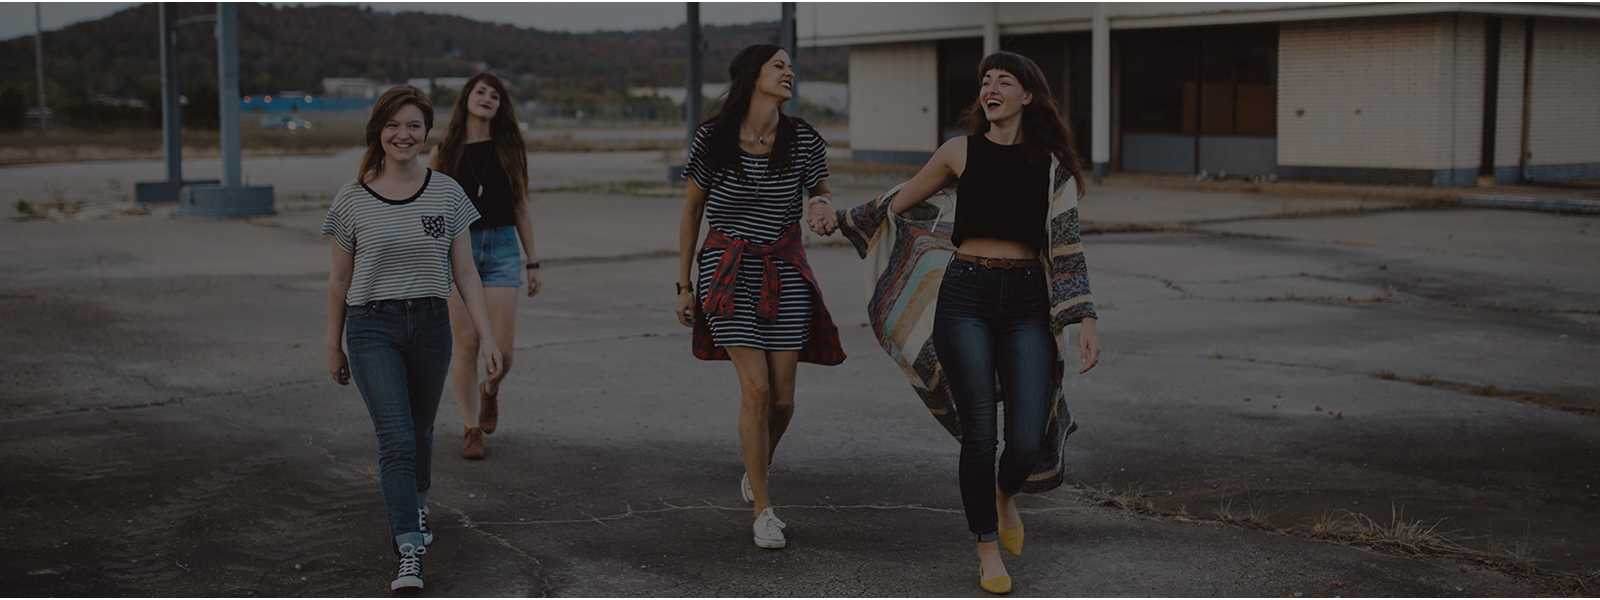
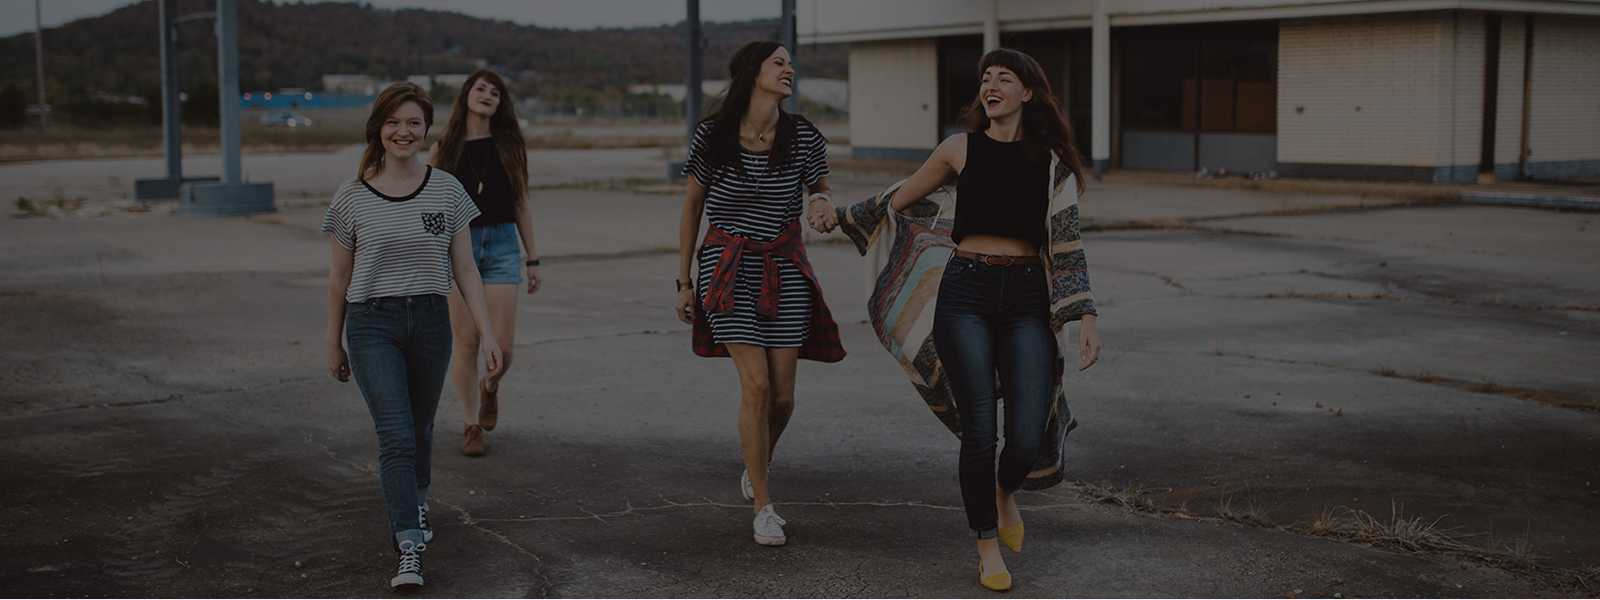
Правки ДЗ-05 крайние

diff --git a/html-css/module-05/css/style.css b/html-css/module-05/css/style.css
@@ -19,16 +19,8 @@ body {
     width: 1200px;
 }
 
-.middle {
-    display: block;
-    position: relative;
-    width: 1110px;
-    overflow: hidden;
-    border: none;
-}
-
 .navigation {
-    padding: 75px 0;
+    padding: 40px 0;
     font-family: "Open Sans", sans-serif;
 }
 
@@ -87,17 +79,6 @@ body {
     object-fit: contain;
 }
 
-.banner:before {
-    content: '';
-    position: absolute;
-    top: 0;
-    left: 0;
-    right: 0;
-    bottom: 0;
-    background-color: rgba(0, 0, 0, 0.5);
-    z-index: 1;
-}
-
 .slider-button {
     height: 600px;
     margin: 0 auto;
@@ -109,14 +90,17 @@ body {
     width: 100px;
     height: 100px;
     display: inline-block;
-    background-color: #4ec6ab;
     margin: 0;
     padding: 0;
     border: none;
     top: 50%;
     transform: translateY(-50%);
     opacity: .5;
-    z-index: 2;
+    cursor: pointer;
+}
+
+.button:hover {
+    background-color: #4ec6ab;
 }
 
 .right {
@@ -279,12 +263,18 @@ img {
 }
 
 .product-list-item:hover .modal-buttons {
-    position: relative;
     margin: 0;
     padding: 0;
     list-style: none;
     width: 180px;
     height: auto;
+    top: 50%;
+    left: 50%;
+    transform: translate(-50%, -50%);
+}
+
+.modal-buttons {
+    position: absolute;
     top: 50%;
     left: 50%;
     transform: translate(-50%, -50%);
@@ -314,8 +304,8 @@ img {
 }
 
 .modal-buttons a:hover {
-    color: white;
-    background: #1abc9c;
+    background-color: rgb(26, 188, 156);
+    border: 1px solid rgb(26, 188, 156);
 }
 
 .modal-buttons1 {

diff --git a/html-css/module-05/index.html b/html-css/module-05/index.html
@@ -15,7 +15,7 @@
 </head>
 
 <body>
-    <header class="tag-header middle container">
+    <header class="tag-header container">
         <nav class="navigation clearfix">
             <a href="#" class="site-logo"><span>M</span>ART</a>
             <ul class="menu-list">
@@ -43,7 +43,7 @@
     <main class="wrapper">
         <section class="slider">
             <div class="banner">
-                <div class="slider-button middle container">
+                <div class="slider-button container">
                     <button class="button right"></button>
                     <button class="button left"></button>
                     <div class="slider-text">
@@ -55,9 +55,9 @@
                 </div>
             </div>
         </section>
-        <section class="collection middle container">
+        <section class="collection container">
             <h2 class="title">new collection</h2>
-            <ul class="product-list middle clearfix">
+            <ul class="product-list clearfix">
                 <li class="product-list-item">
                     <img src="./img/img-1.jpg" alt="Man" width="255" height="280">
                     <p class="product-name">Blue Tshirt</p>
